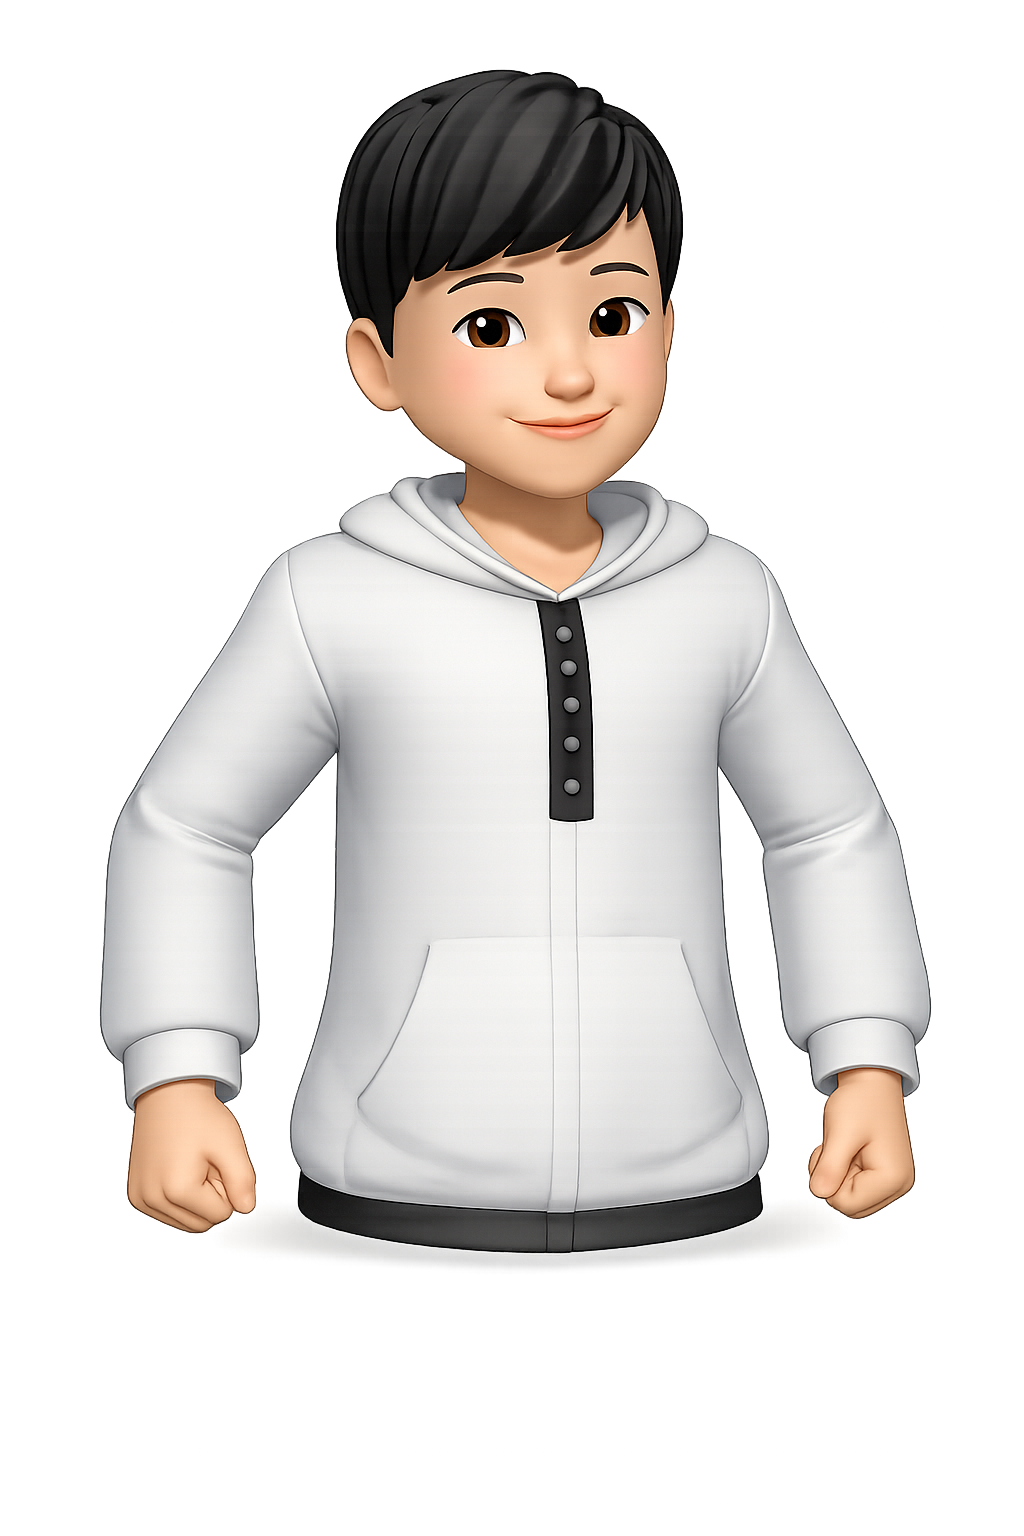
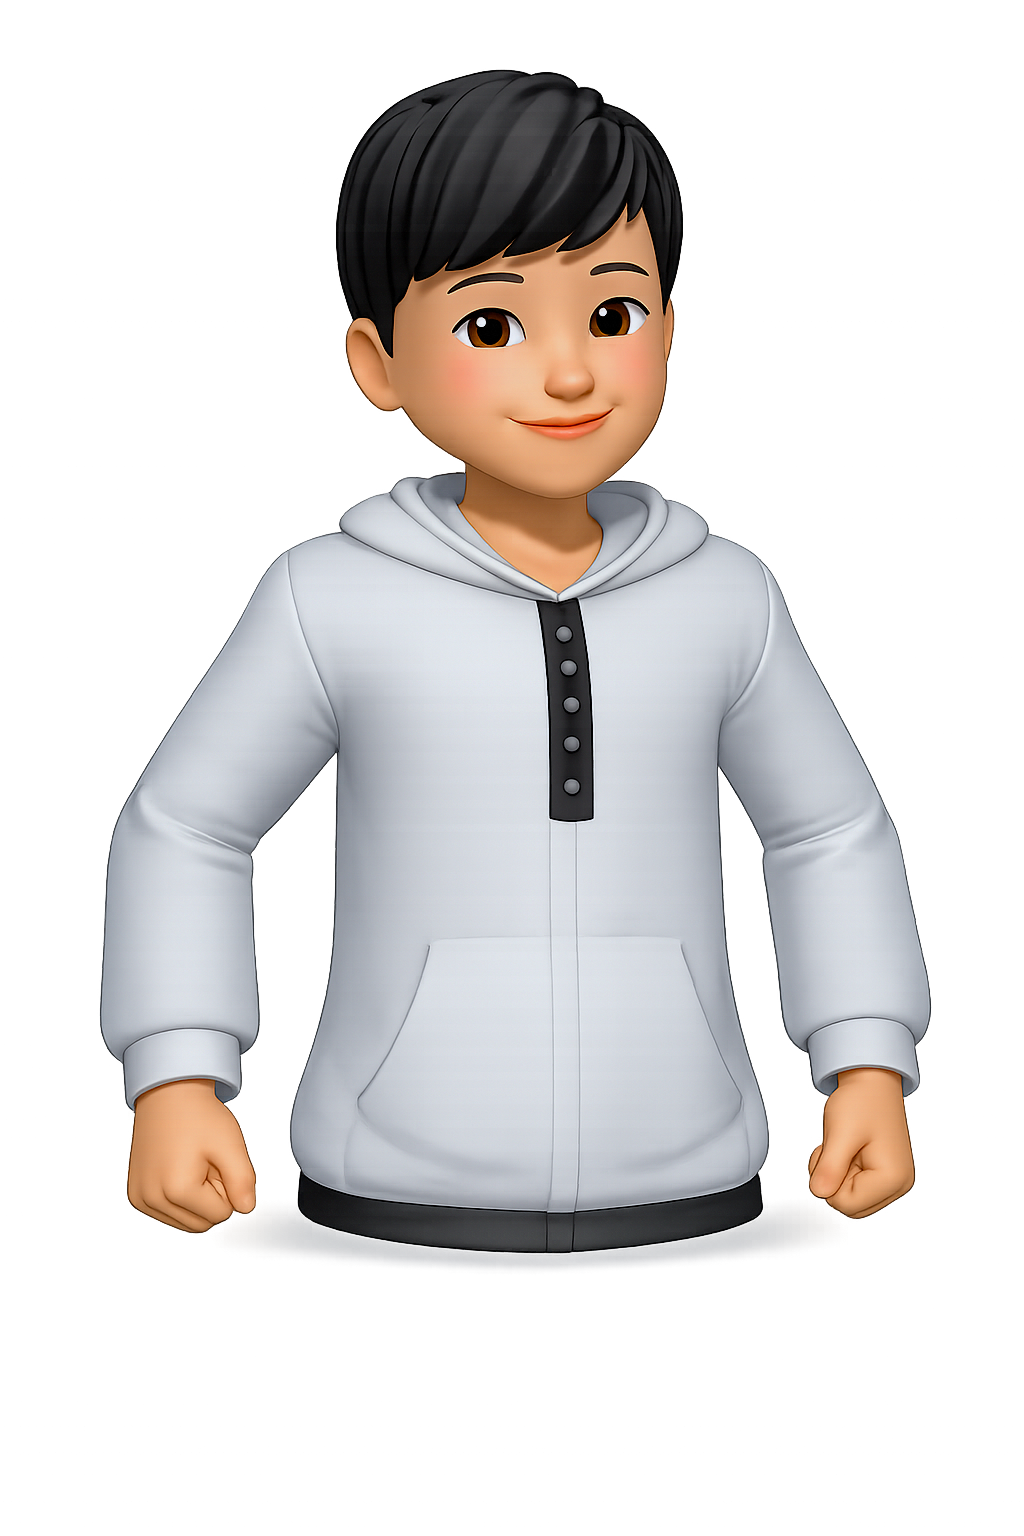
style: Update home and about pages

Changed region(s): [[0.3438, 0.125, 0.6562, 0.4062], [0.125, 0.6875, 0.25, 0.8125], [0.7812, 0.6875, 0.9062, 0.8125]]

diff --git a/src/pages/AboutSection.jsx b/src/pages/AboutSection.jsx
@@ -6,7 +6,7 @@ export default function AboutSection() {
       <div className="max-w-7xl mx-auto w-full grid grid-cols-1 md:grid-cols-2 gap-12 lg:gap-24 items-center">
 
         {/* Left Column */}
-        <div className="flex flex-col items-start text-left z-20 order-2 md:order-1">
+        <div className="flex flex-col items-start text-left z-20 order-2 md:order-2 self-start md:pt-12">
           
           <div className="mb-8">
             <h2 className="text-4xl md:text-5xl lg:text-6xl font-extrabold tracking-tight text-zinc-900 dark:text-zinc-50 mb-6 leading-[1.1]">
@@ -32,16 +32,16 @@ export default function AboutSection() {
         </div>
 
       {/* Right Column */}
-        <div className="relative w-full flex justify-center md:justify-end order-1 md:order-2 mb-6 md:mb-0">
+        <div className="relative w-full flex justify-center md:justify-start order-1 md:order-1 mb-6 md:mb-0">
           
           <div className="absolute top-1/2 left-1/2 -translate-x-1/2 -translate-y-1/2 bg-emerald-500 blur-[100px] w-[16rem] h-[16rem] md:w-[24rem] md:h-[24rem] lg:w-[30rem] lg:h-[30rem] opacity-20 dark:opacity-30 rounded-full animate-pulse z-0 pointer-events-none"></div>
 
-          <div className="relative z-10 w-4/5 sm:w-full max-w-xs md:max-w-sm lg:max-w-md group flex justify-center">
+          <div className="relative z-10 group flex justify-center">
             
             <img
-              src="/about.png" 
+              src="/123.png" 
               alt="Yehan Kanishka"
-              className="w-full h-auto object-contain drop-shadow-2xl grayscale-[15%] group-hover:grayscale-0 group-hover:scale-105 transition-all duration-700 ease-in-out"
+              className="w-[20rem] sm:w-[24rem] md:w-[32rem] lg:w-[38rem] xl:w-[42rem] h-auto object-contain drop-shadow-2xl grayscale-[15%] group-hover:grayscale-0 group-hover:scale-105 transition-all duration-700 ease-in-out"
             />
             
           </div>

diff --git a/src/pages/HeroSection.jsx b/src/pages/HeroSection.jsx
@@ -8,17 +8,17 @@ export default function HeroSection() {
       <div className="max-w-7xl mx-auto w-full grid grid-cols-1 md:grid-cols-2 gap-12 lg:gap-16 h-full">
 
         {/* Left Column*/}
-        <div className="flex justify-center md:justify-start self-end order-1 md:order-1 relative w-full h-full flex-col justify-end">
+        <div className="flex flex-col items-center md:items-end justify-end self-end order-1 md:order-2 relative w-full h-full">
           <div className="absolute top-1/2 left-1/2 -translate-x-1/2 -translate-y-1/2 bg-blue-500 blur-[100px] w-[20rem] h-[20rem] md:w-[28rem] md:h-[28rem] lg:w-[35rem] lg:h-[35rem] opacity-30 dark:opacity-40 rounded-full animate-pulse z-0 pointer-events-none"></div>
           <img
-            src="/123.png"
+            src="/about.png"
             alt="Yehan Kanishka"
-            className="w-[22rem] md:w-[32rem] lg:w-[40rem] h-auto object-contain object-bottom origin-bottom relative z-10 transition-transform duration-700 ease-in-out hover:scale-105"
+            className="w-[20rem] md:w-[28rem] lg:w-[36rem] h-auto object-contain object-bottom origin-bottom relative z-10 transition-transform duration-700 ease-in-out hover:scale-105"
           />
         </div>
 
         {/* Right Column*/}
-        <div className="flex flex-col items-start text-left order-2 md:order-2 self-start md:pt-12 pb-6 z-20">
+        <div className="flex flex-col items-start text-left order-2 md:order-1 self-start md:pt-12 pb-6 z-20">
           
           <h1 className="text-4xl md:text-5xl lg:text-6xl font-extrabold tracking-tight text-zinc-900 dark:text-zinc-50 mb-6 leading-[1.1]">
             Hello, I'm <br />
